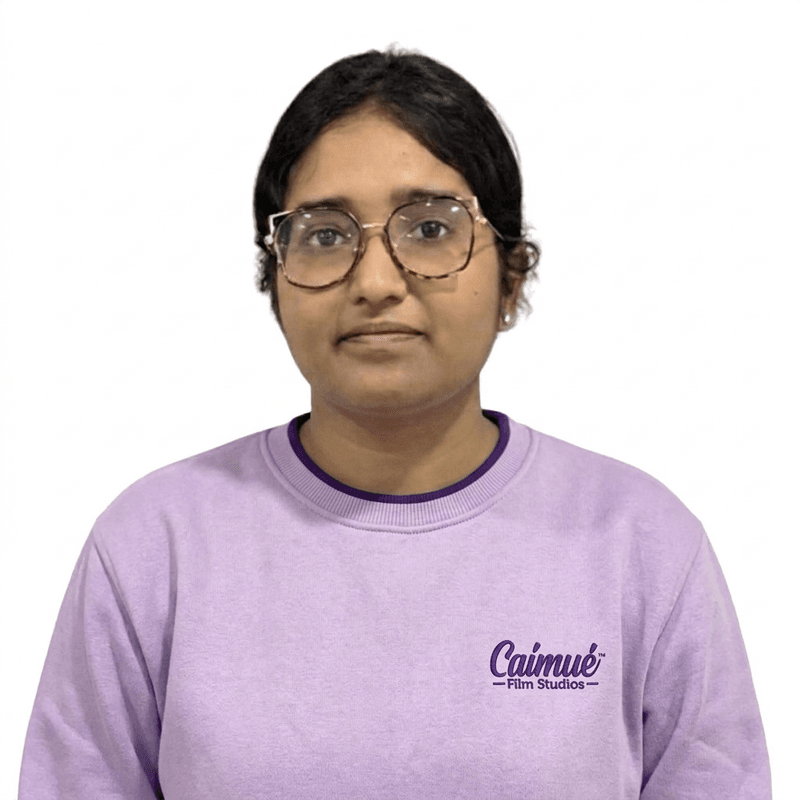
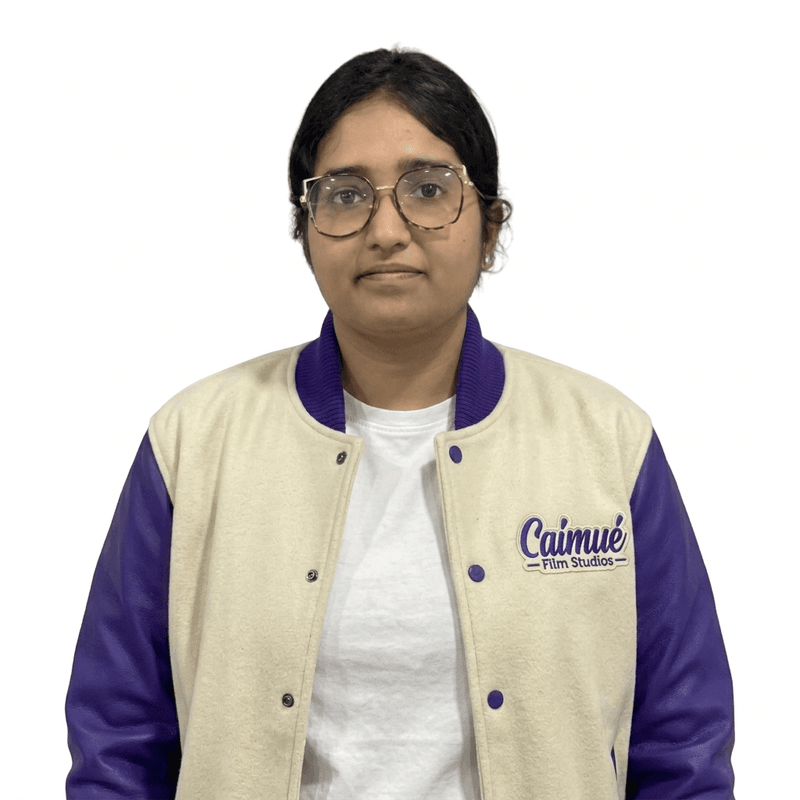
Team: stylish black+purple bomber for Vivin, Megha-style varsity for Purnima, Gowtham-style purple hoodie for Sanjay; bigger card text and visible Caveat handwriting (font-handwriting pointed at unloaded Nanum Pen Script); perf: drop SVG goo filter from gradient hero, pause offscreen animations, idl

diff --git a/components/ui/FeatureFilmsSection.tsx b/components/ui/FeatureFilmsSection.tsx
@@ -53,25 +53,6 @@ export function FeatureFilmsSection() {
             <div className="absolute -top-20 right-1/4 w-72 h-72 bg-purple-300/20 rounded-full blur-[120px] pointer-events-none" />
             <div className="absolute -bottom-24 left-1/4 w-72 h-72 bg-pink-300/20 rounded-full blur-[120px] pointer-events-none" />
 
-            {/* Faint tint from the active still so the section subtly shifts color with the reel */}
-            <AnimatePresence>
-                <motion.div
-                    key={activeStill.src}
-                    initial={{ opacity: 0 }}
-                    animate={{ opacity: 0.08 }}
-                    exit={{ opacity: 0 }}
-                    transition={{ duration: 1.4, ease: "easeInOut" }}
-                    className="absolute inset-0 pointer-events-none hidden md:block"
-                    style={{
-                        backgroundImage: `url(${activeStill.src.replace(/ /g, "%20")})`,
-                        backgroundSize: "cover",
-                        backgroundPosition: "center 30%",
-                        filter: "blur(80px) saturate(1.5)",
-                        transform: "scale(1.3)",
-                    }}
-                />
-            </AnimatePresence>
-
             {/* ── Header ── */}
             <motion.div
                 initial={{ opacity: 0, y: 30 }}
@@ -300,7 +281,7 @@ export function FeatureFilmsSection() {
                     --cf-gap: 260px;
                     --cf-depth: 210px;
                     position: relative;
-                    height: calc(var(--cf-w) * 9 / 16 + 90px);
+                    height: calc(var(--cf-w) * 9 / 16 + 60px);
                     perspective: 1500px;
                     transform-style: preserve-3d;
                 }
@@ -318,10 +299,9 @@ export function FeatureFilmsSection() {
                     transition:
                         transform 0.8s cubic-bezier(0.22, 1, 0.36, 1),
                         opacity 0.8s ease,
-                        filter 0.8s ease,
-                        box-shadow 0.8s ease;
+                        filter 0.8s ease;
                     box-shadow: 0 24px 48px rgba(76, 29, 149, 0.22);
-                    -webkit-box-reflect: below 6px linear-gradient(transparent 72%, rgba(255, 255, 255, 0.35));
+                    will-change: transform;
                 }
                 .cf-card--center {
                     border-color: rgba(147, 51, 234, 0.35);
@@ -352,7 +332,7 @@ export function FeatureFilmsSection() {
                         --cf-gap: 150px;
                         --cf-depth: 140px;
                         perspective: 1000px;
-                        height: calc(var(--cf-w) * 9 / 16 + 70px);
+                        height: calc(var(--cf-w) * 9 / 16 + 50px);
                     }
                 }
                 @media (prefers-reduced-motion: reduce) {

diff --git a/components/ui/MovieCardsFan.tsx b/components/ui/MovieCardsFan.tsx
@@ -30,23 +30,11 @@ export default function MovieCardsFan({ images = [] }: { images?: string[] }) {
   useEffect(() => {
     const stage = stageRef.current;
     if (!stage) return;
-
-    const onMove = (e: MouseEvent) => {
-      const rect = stage.getBoundingClientRect();
-      mouseRef.current = {
-        x: (e.clientX - rect.left - rect.width / 2) / (rect.width / 2),
-        y: (e.clientY - rect.top - rect.height / 2) / (rect.height / 2),
-      };
-    };
-
-    const onLeave = () => {
-      mouseRef.current = { x: 0, y: 0 };
-    };
-
-    window.addEventListener("mousemove", onMove);
-    stage.addEventListener("mouseleave", onLeave);
+    // Parallax is pointless (and costly) on touch devices
+    if (typeof window.matchMedia === "function" && !window.matchMedia("(pointer: fine)").matches) return;
 
     const lerp = (a: number, b: number, t: number) => a + (b - a) * t;
+    let running = false;
 
     const tick = () => {
       targetRef.current.x = lerp(targetRef.current.x, mouseRef.current.x, 0.06);
@@ -65,10 +53,41 @@ export default function MovieCardsFan({ images = [] }: { images?: string[] }) {
         card.style.setProperty("--pr", `${cfg.rotate + pr}deg`);
       });
 
+      // Stop the loop once the ease has settled — restarts on the next mousemove
+      const settled =
+        Math.abs(targetRef.current.x - mouseRef.current.x) < 0.001 &&
+        Math.abs(targetRef.current.y - mouseRef.current.y) < 0.001;
+      if (settled) {
+        running = false;
+        return;
+      }
       frameRef.current = requestAnimationFrame(tick);
     };
 
-    frameRef.current = requestAnimationFrame(tick);
+    const startLoop = () => {
+      if (running) return;
+      running = true;
+      frameRef.current = requestAnimationFrame(tick);
+    };
+
+    const onMove = (e: MouseEvent) => {
+      const rect = stage.getBoundingClientRect();
+      // Ignore movement while the fan is offscreen
+      if (rect.bottom < 0 || rect.top > window.innerHeight) return;
+      mouseRef.current = {
+        x: (e.clientX - rect.left - rect.width / 2) / (rect.width / 2),
+        y: (e.clientY - rect.top - rect.height / 2) / (rect.height / 2),
+      };
+      startLoop();
+    };
+
+    const onLeave = () => {
+      mouseRef.current = { x: 0, y: 0 };
+      startLoop();
+    };
+
+    window.addEventListener("mousemove", onMove, { passive: true });
+    stage.addEventListener("mouseleave", onLeave);
 
     return () => {
       window.removeEventListener("mousemove", onMove);
@@ -195,8 +214,8 @@ export default function MovieCardsFan({ images = [] }: { images?: string[] }) {
         }
 
         @keyframes fanFloat {
-          0%, 100% { margin-top: 0; }
-          50%       { margin-top: -12px; }
+          0%, 100% { translate: 0 0; }
+          50%       { translate: 0 -12px; }
         }
 
         @keyframes cardEntry {

diff --git a/components/ui/background-gradient-animation.tsx b/components/ui/background-gradient-animation.tsx
@@ -67,8 +67,21 @@ export const BackgroundGradientAnimation = ({
         document.body.style.setProperty("--blending-value", blendingValue);
     }, [gradientBackgroundStart, gradientBackgroundEnd, firstColor, secondColor, thirdColor, fourthColor, fifthColor, pointerColor, size, blendingValue]);
 
+    // Pause all animation work while the section is offscreen
+    const [inView, setInView] = useState(true);
     useEffect(() => {
-        if (!interactive) return;
+        const el = containerRef.current;
+        if (!el || typeof IntersectionObserver === "undefined") return;
+        const io = new IntersectionObserver(
+            ([entry]) => setInView(entry.isIntersecting),
+            { rootMargin: "120px" }
+        );
+        io.observe(el);
+        return () => io.disconnect();
+    }, []);
+
+    useEffect(() => {
+        if (!interactive || !inView) return;
 
         let animationFrame: number;
 
@@ -96,7 +109,7 @@ export const BackgroundGradientAnimation = ({
         return () => {
             cancelAnimationFrame(animationFrame);
         };
-    }, [interactive, autoMove]);
+    }, [interactive, autoMove, inView]);
 
     const handleMouseMove = (event: React.MouseEvent<HTMLDivElement>) => {
         if (autoMove) return; // movement is autonomous; ignore the cursor
@@ -121,29 +134,12 @@ export const BackgroundGradientAnimation = ({
                 containerClassName
             )}
         >
-            <svg className="hidden">
-                <defs>
-                    <filter id="blurMe">
-                        <feGaussianBlur
-                            in="SourceGraphic"
-                            stdDeviation="10"
-                            result="blur"
-                        />
-                        <feColorMatrix
-                            in="blur"
-                            mode="matrix"
-                            values="1 0 0 0 0  0 1 0 0 0  0 0 1 0 0  0 0 0 18 -8"
-                            result="goo"
-                        />
-                        <feBlend in="SourceGraphic" in2="goo" />
-                    </filter>
-                </defs>
-            </svg>
             <div className={cn("", className)}>{children}</div>
             <div
                 className={cn(
-                    "gradients-container h-full w-full blur-lg",
-                    isSafari ? "blur-2xl" : "[filter:url(#blurMe)_blur(40px)]"
+                    "gradients-container h-full w-full",
+                    isSafari ? "blur-2xl" : "blur-[40px]",
+                    !inView && "anim-paused"
                 )}
                 style={(() => {
                     // Custom mask wins; otherwise maskCenter keeps the moving

diff --git a/app/about/page.tsx b/app/about/page.tsx
@@ -121,17 +121,17 @@ function TeamCard({ person, index }: { person: typeof allTeam[0]; index: number 
         </h4>
         {/* Role — quiet pill, normal case */}
         <span
-          className="inline-block text-[11px] font-semibold tracking-wide px-2.5 py-[3px] mb-2.5 rounded-full"
+          className="inline-block text-[12.5px] font-bold tracking-wide px-3 py-1 mb-2.5 rounded-full"
           style={{ background: `${person.color}14`, color: person.color, border: `1px solid ${person.color}30` }}
         >
           {person.role}
         </span>
         {/* Bio */}
-        <p className="text-[12px] leading-relaxed font-sans italic text-gray-500 mb-2">
+        <p className="text-[13.5px] leading-relaxed font-sans italic text-gray-600 mb-2">
           "{person.bio}"
         </p>
         {/* Fun fact — handwritten margin note */}
-        <p className="font-handwriting text-[13px] leading-snug mb-2.5 -rotate-1"
+        <p className="font-handwriting text-[17px] font-bold leading-snug mb-2.5 -rotate-1"
           style={{ color: person.color }}>
           ✦ {person.fun}
         </p>
@@ -139,7 +139,7 @@ function TeamCard({ person, index }: { person: typeof allTeam[0]; index: number 
         <div className="flex flex-wrap gap-1.5">
           {person.tags.map((tag) => (
             <span key={tag}
-              className="text-[10px] font-semibold px-2 py-[2px] rounded-full bg-gray-100 text-gray-500">
+              className="text-[11px] font-semibold px-2.5 py-[3px] rounded-full bg-gray-100 text-gray-600">
               {tag}
             </span>
           ))}

diff --git a/app/globals.css b/app/globals.css
@@ -128,6 +128,12 @@
   -webkit-mask-image: radial-gradient(ellipse at center, black 0%, black 40%, transparent 90%);
 }
 
+/* Pause CSS animations on offscreen sections (set via IntersectionObserver) */
+.anim-paused,
+.anim-paused * {
+  animation-play-state: paused !important;
+}
+
 /* ---------- Base Styles ---------- */
 * {
   box-sizing: border-box;
@@ -388,9 +394,9 @@ h3 {
   /* Overlap to prevent gap */
 }
 
-/* Font Handwriting */
+/* Font Handwriting — Caveat is loaded via next/font in layout.tsx */
 .font-handwriting {
-  font-family: 'Nanum Pen Script', cursive;
+  font-family: var(--font-caveat), 'Segoe Script', cursive;
 }
 
 .wave-divider svg {
